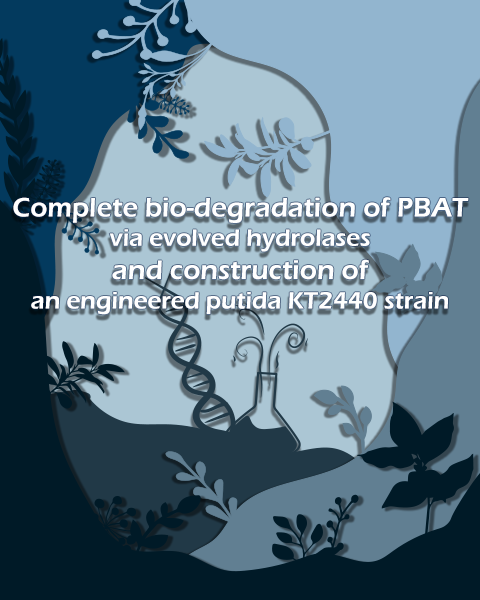
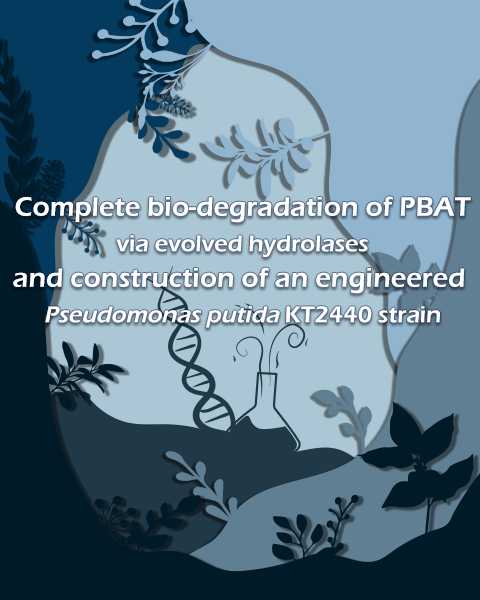
18th Header UPDATED

Changed region(s): [[0.0312, 0.33, 1.0, 0.72], [0.5938, 0.72, 0.625, 0.75]]

diff --git a/index.html b/index.html
@@ -228,7 +228,8 @@
     </div>
 
     <div class="titlebox">
-        <h1 class="title" id="title" style="line-height:1.1">Complete bio-degradation of PBAT <br> via evolved hydrolases and construction of an engineered <em>Pseudomonas putida </em>KT2440 strain</h1>
+        <!-- <h1 class="title" id="title" style="line-height:1.1">Complete bio-degradation of PBAT <br> via evolved hydrolases and construction of an engineered <em>Pseudomonas putida </em>KT2440 strain</h1> -->
+         <img src="./images/头图.png" alt="" class="titlep" id="titlep">
     </div>
     <!-- <script>
         const title = document.getElementById('title');
@@ -257,7 +258,7 @@
             <!-- 夹在头和尾之间 -->
             <section class="second_part" style="position: relative;top: 1000px;">
                 <div class="WhatisPBAT" id="pbContainer">
-                    <h1>What is PBAT?</h1>
+                    <h1 class="text-shadow-effect">What is PBAT?</h1>
                     Poly (butylene adipate-co-terephthalate) (PBAT), a polymer synthesized from the monomers terephthalic acid (TPA), adipic acid (AA), and 1,4-butanediol (BDO), has garnered significant attention as a biocompatible and degradable polymeric material, exhibiting considerable potential for widespread application in the realm of agricultural film technology.
                 </div>
                 <script>

diff --git a/js/movement.js b/js/movement.js
@@ -107,7 +107,7 @@ window.addEventListener('scroll', function() {
     const lftBox2 = document.getElementById('lft2');
     const rgtBox2 = document.getElementById('rgt2');
     const MidBox = document.getElementById('mid0');
-    const TitBox = document.getElementById('title');
+    const TitBox = document.getElementById('titlep');
     const dnap = document.getElementById('dnapic');
 
[1 lines of base64/hex data omitted]

diff --git a/css/style.css b/css/style.css
@@ -87,6 +87,16 @@ h1{
     font-family: 'Times New Roman', Times, serif;
     
 }
+
+.titlep{
+    left: 7.5%;
+    width:85%;
+    padding-top:200px;
+    position: fixed;
+    z-index: 5;
+    transition: all 0.5s ease;
+    
+}
 .t1{
     position: relative;
     top: 1200px;
